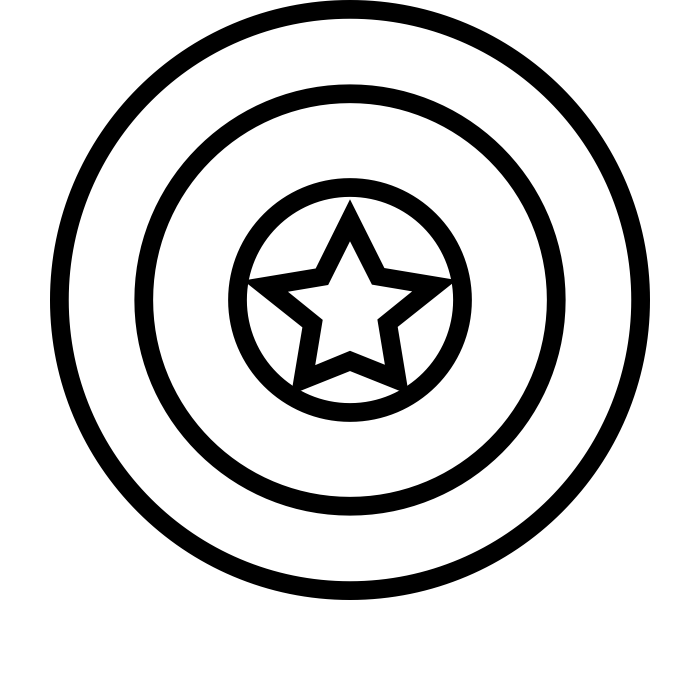
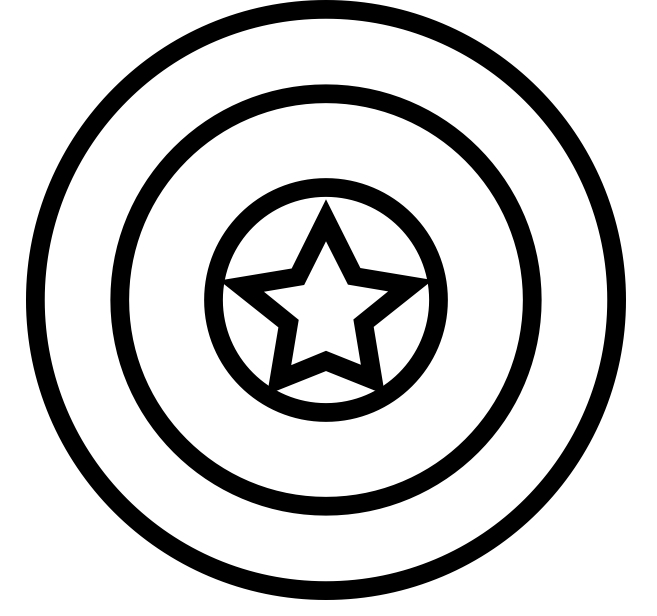
Set text and background colors and CSS variables
- Set up variables for background colors and padding

diff --git a/index.html b/index.html
@@ -44,10 +44,10 @@
             </div>
         </div>
         <div class="main-content">
-            <h1 class="section-title main-content-title">Your Projects</h1>
             <!-- NOTE: Projects should be in flexbox, not Grid, so that they stack in mobile form  -->
              <!-- NOTE: Projects block height is locked to the height of the adjacent blocks, which prevents the height from auto-locking to the content size -->
             <div class="projects-block">
+                <h1 class="section-title main-content-title">Avengers Initiatives</h1>
                 <div class="project-item">
                     <h2 class="project-title">Invade Hydra Base</h2>
                     <p class="project-description">Suspected Hydra base discovered in Himalayan Alps.<br>Initial reconnaissance in progress.<br>Attack plan to be drafted by Agent Hill.</p>
@@ -121,11 +121,11 @@
                 </div>
             </div>
             <div class="trending-block">
-                <h1>Trending</h1>
+                <h1 class="section-title trending-title">Trending</h1>
                 <div class="social-handle">
                     <div class="social-pair">
                         <img src="./assets/profile-pics/noun-iron-man-4240472.png" alt="iron man helmet profile picture">
-                        <h2>@theironman</h2>
+                        <h2>@TheIronMan</h2>
                     </div>
                     <p>World Peace Builder</p>
                 </div>
@@ -139,7 +139,7 @@
                 <div class="social-handle">
                     <div class="social-pair">
                         <img src="./assets/profile-pics/noun-spider-man-1634911.png" alt="spider-man profile picture">
-                        <h2>@spiderman1439</h2>
+                        <h2>@SpiderMan1439</h2>
                     </div>
                     <p>Hello world! Excited to be here! I'm a new "hero" from NYC...</p>
                 </div>

diff --git a/style.css b/style.css
@@ -42,7 +42,7 @@
 
 img {
   width:1em;
-  height:1em;
+  height:auto;
 }
 
 div.container {
@@ -144,31 +144,37 @@ div.main-content{
     grid-template-columns: 3fr 1fr;
     grid-template-rows: auto auto auto;
     grid-template-areas:
-    "title title"
     "projects announcements"
-    "projects trending";
+    "projects trending"
+    "projects none";
 }
 
-h1.main-content-title {
-  grid-area: title;
-}
 div.projects-block {
     grid-area: projects;
+
+    height: auto;
 }
 div.announcements-block {
     grid-area: announcements;
+    height: auto;
 }
 div.trending-block {
     grid-area: trending;
     align-self: start;
+    height: auto;
 }
 
 /* Projects Grid */
 div.main-content > div.projects-block {
   display: grid;
   grid-template-columns: 1fr 1fr;
-  grid-template-rows: repeat(3, auto);
+  grid-template-rows: repeat(5, auto);
   grid-gap: 0.5rem;
+}
+
+h1.main-content-title {
+  grid-row: 1;
+  grid-column: span 2;
 }
 
 div.project-item {
@@ -191,7 +197,6 @@ div.project-item > div.project-icon-group {
 }
 
 /* Announcements Block */
-
 .announcements-block {
   margin-left: auto;
   margin-right: auto;
@@ -224,7 +229,7 @@ div.project-item > div.project-icon-group {
 }
 
 .social-pair > img {
-  height: 2rem;
+  height: 1.8rem;
   width: auto;
 }
 
